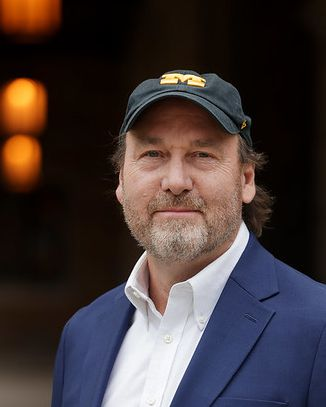
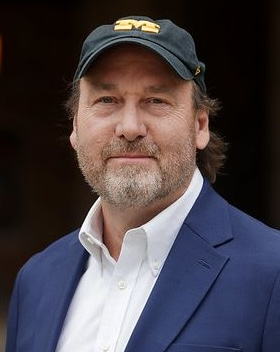
Add files via upload

diff --git a/facilities.html b/facilities.html
@@ -533,12 +533,12 @@ body { font-family: 'DM Sans', sans-serif; background: var(--blue); }
 .subsection-head{
   padding-top:2px;
   margin-bottom:5px;
-  max-width:100vw;
+  max-width:600px;
 }
-.subsection-head .stag{ font-size:11px; font-weight:700; letter-spacing:.16em; text-transform:uppercase; color:var(--maize); margin-bottom:10px; max-width:100vw; }
-.subsection-head h2{ font-family:'Playfair Display', serif; font-size:36px; color:#fff; margin-bottom:8px; max-width:100vw; }
-.subsection-head h2 em{ font-style:italic; color:var(--maize); max-width:100vw;}
-.subsection-sub{ font-size:15px; color:rgba(255,255,255,0.5); max-width:100vw; line-height:1.6; margin-bottom:28px; }
+.subsection-head .stag{ font-size:11px; font-weight:700; letter-spacing:.16em; text-transform:uppercase; color:var(--maize); margin-bottom:10px; max-width:600px; }
+.subsection-head h2{ font-family:'Playfair Display', serif; font-size:36px; color:#fff; margin-bottom:8px; max-width:600px; }
+.subsection-head h2 em{ font-style:italic; color:var(--maize); max-width:600px;}
+.subsection-sub{ font-size:15px; color:rgba(255,255,255,0.5); max-width:600px; line-height:1.6; margin-bottom:28px; }
 
 /* ===== PHOTO GRID ===== */
 .photo-row{ display:grid; grid-template-columns:1fr 1fr; gap:20px; margin:28px 0; }
@@ -556,7 +556,7 @@ body { font-family: 'DM Sans', sans-serif; background: var(--blue); }
   font-size:14px;
   color:rgba(255,255,255,0.65);
   line-height:1.6;
-  margin-top:20px;
+  margin-top:-15px;
 }
 .support-card strong{ color:#fff; }
 
@@ -709,6 +709,23 @@ body { font-family: 'DM Sans', sans-serif; background: var(--blue); }
     .scroll-cue { display: none; }
   }
 
+  .section-image img{
+    max-width: 500px;
+    max-height: 350px;
+    margin-left: 30px;
+  }
+
+  .section-content {
+    display: flex;
+    align-items: flex-start;      /* use flex-start if you want the image aligned with the first paragraph */
+  }
+
+  .text-column {
+  display: flex;
+  flex-direction: column;
+  max-width: 600px;
+}
+
 </style>
 </head><body>
 <div class="page">
@@ -790,28 +807,47 @@ body { font-family: 'DM Sans', sans-serif; background: var(--blue); }
 
   <!-- ================= THE BATTERY LAB ================= -->
   <section class="section">
+    <div class="section-content">
+  <div class="text-column">
     <div class="subsection-head">
       <div class="stag">The Battery Lab</div>
       <h2>Advancing battery innovation, <em>concept to commercialization</em></h2>
-      <p class="subsection-sub">The U-M Battery Lab spans the full battery development path in one place – from early-stage research to pilot-scale production and module assembly – across three complementary facilities on and off campus, including a 23,500-square-foot addition currently under construction at UMTRI. </p>
+      <p class="subsection-sub">The U-M Battery Lab spans the full battery development path in one place – from early-stage research to pilot-scale production and module assembly – across three complementary facilities on and off campus, including a 23,500-square-foot addition currently under construction at UMTRI.</p>
     </div>
 
-    <div class="support-card">
-      Visit the U-M Battery Lab → https://umbatterylab.engin.umich.edu/
+    <div class="support-card" style="max-width: 600px;">
+      Visit the U-M Battery Lab → <a href="https://umbatterylab.engin.umich.edu/" style="color: var(--green)">https://umbatterylab.engin.umich.edu/</a>
     </div>
+  </div>
+
+  <div class="section-image">
+    <img src="fac1.jpg" alt="Technology">
+  </div>
+</div>
+
   </section>
 
   
   <!-- ================= THE LAY AUTO LAB ================= -->
-  <section class="section" id="lay-auto-lab">
+  <section class="section">
+    <div class="section-content">
+  <div class="text-column">
     <div class="subsection-head">
       <div class="stag">The Lay Auto Lab</div>
       <h2>Testing components inside a <em>complete propulsion system</em></h2>
       <p class="subsection-sub"> The Lay Automotive Laboratory, long U-M’s home for engine and transmission research, is converting four bays to battery-electric propulsion. Its modular hardware-in-the-loop system lets a partner test a motor, cell chemistry, or thermal component inside a complete propulsion system – one of the only such setups at any university.</p>
     </div>
-    <div class="support-card">
-      Visit the Lay Auto Lab → https://autolab.engin.umich.edu/
+
+    <div class="support-card" style="max-width: 600px;">
+      Visit the Lay Auto Lab → <a href="https://autolab.engin.umich.edu/" style="color: var(--orange)">https://autolab.engin.umich.edu/</a>
     </div>
+  </div>
+
+  <div class="section-image">
+    <img src="fac2.jpg" alt="Lay Auto Lab">
+  </div>
+</div>
+
   </section>
 
 

diff --git a/index.html b/index.html
@@ -912,6 +912,21 @@ a { color: inherit; }
       <div class="pillar-base"></div>
       <div class="pillar-number">01</div>
     </div>
+
+     <div class="pillar-wrap pillar-orange">
+      <div class="pillar-cap-top"></div>
+      <div class="pillar-shaft">
+        <div class="pillar-icon-bg">
+          <i class="ti ti-building-factory-2 pillar-icon" aria-hidden="true"></i>
+        </div>
+        <div class="pillar-label">Facilities</div>
+        <div class="pillar-divider"></div>
+        <div class="pillar-body">New training and R&D facility with an upgraded Battery Lab for hands-on education and research.</div>
+      </div>
+      <div class="pillar-cap-bottom"></div>
+      <div class="pillar-base"></div>
+      <div class="pillar-number">03</div>
+    </div>
  
     <div class="pillar-wrap pillar-green">
       <div class="pillar-cap-top"></div>
@@ -926,21 +941,6 @@ a { color: inherit; }
       <div class="pillar-cap-bottom"></div>
       <div class="pillar-base"></div>
       <div class="pillar-number">02</div>
-    </div>
- 
-    <div class="pillar-wrap pillar-orange">
-      <div class="pillar-cap-top"></div>
-      <div class="pillar-shaft">
-        <div class="pillar-icon-bg">
-          <i class="ti ti-building-factory-2 pillar-icon" aria-hidden="true"></i>
-        </div>
-        <div class="pillar-label">Facilities</div>
-        <div class="pillar-divider"></div>
-        <div class="pillar-body">New training and R&D facility with an upgraded Battery Lab for hands-on education and research.</div>
-      </div>
-      <div class="pillar-cap-bottom"></div>
-      <div class="pillar-base"></div>
-      <div class="pillar-number">03</div>
     </div>
  
     <div class="floor-line"></div>

diff --git a/technology.html b/technology.html
@@ -280,12 +280,13 @@
     margin-bottom:20px;
     margin-top:-18px;
   }
+  
   .section-content {
     display: flex;
     align-items: flex-start;      /* use flex-start if you want the image aligned with the first paragraph */
     justify-content: space-between;
     gap: 60px;
-}
+  }
 
 .section-text {
     flex: 1;
@@ -681,13 +682,13 @@
         to advance the technologies defining the next era of electrified mobility.
       </p>
 
-      <p class="section-intro">
+      <p class="section-intro" style="margin-top: 10px;">
         Our approach is collaborative by design. We start with the challenges
         our members need solved, then bring U-M's technical depth to bear. The
         result: a portfolio built with our partners, not just for them.
       </p>
 
-      <p class="section-intro">
+      <p class="section-intro" style="margin-top: 10px;">
         Our focus is hardware — how to design, engineer, and manufacture better
         propulsion systems, batteries, and charging infrastructure. How they're
         used downstream is important work, but it's not our lane.
